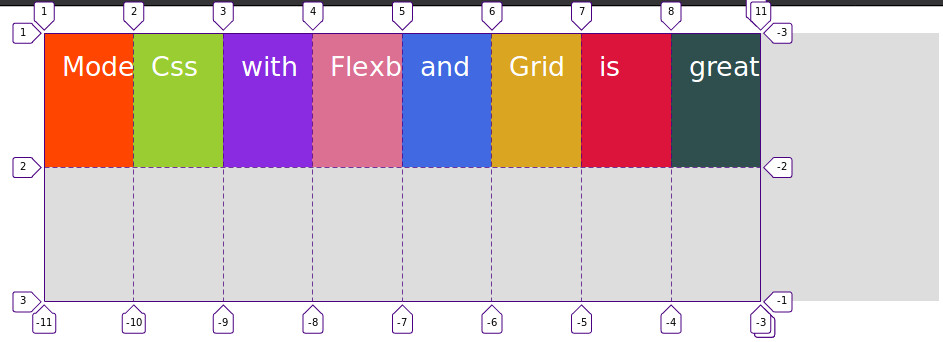
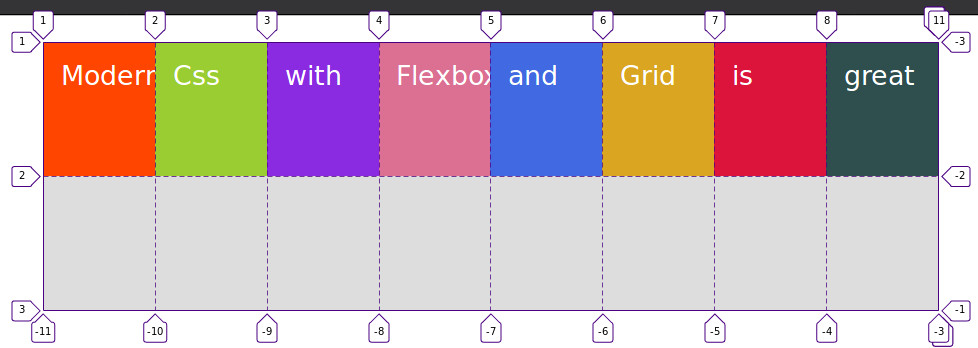
Use minmax function in auto-fit to ocupy our entire container with all the grid tracks

diff --git a/scss/style.scss b/scss/style.scss
@@ -18,7 +18,7 @@
   grid-template-rows: repeat(2, minmax(150px, min-content));
   grid-template-columns: repeat(auto-fill, 100px);
   grid-template-columns: repeat(auto-fit, 100px);
-  
+  grid-template-columns: repeat(auto-fit, minmax(100px, 1fr));
   .item {
     padding: 20px;
     color: white;
